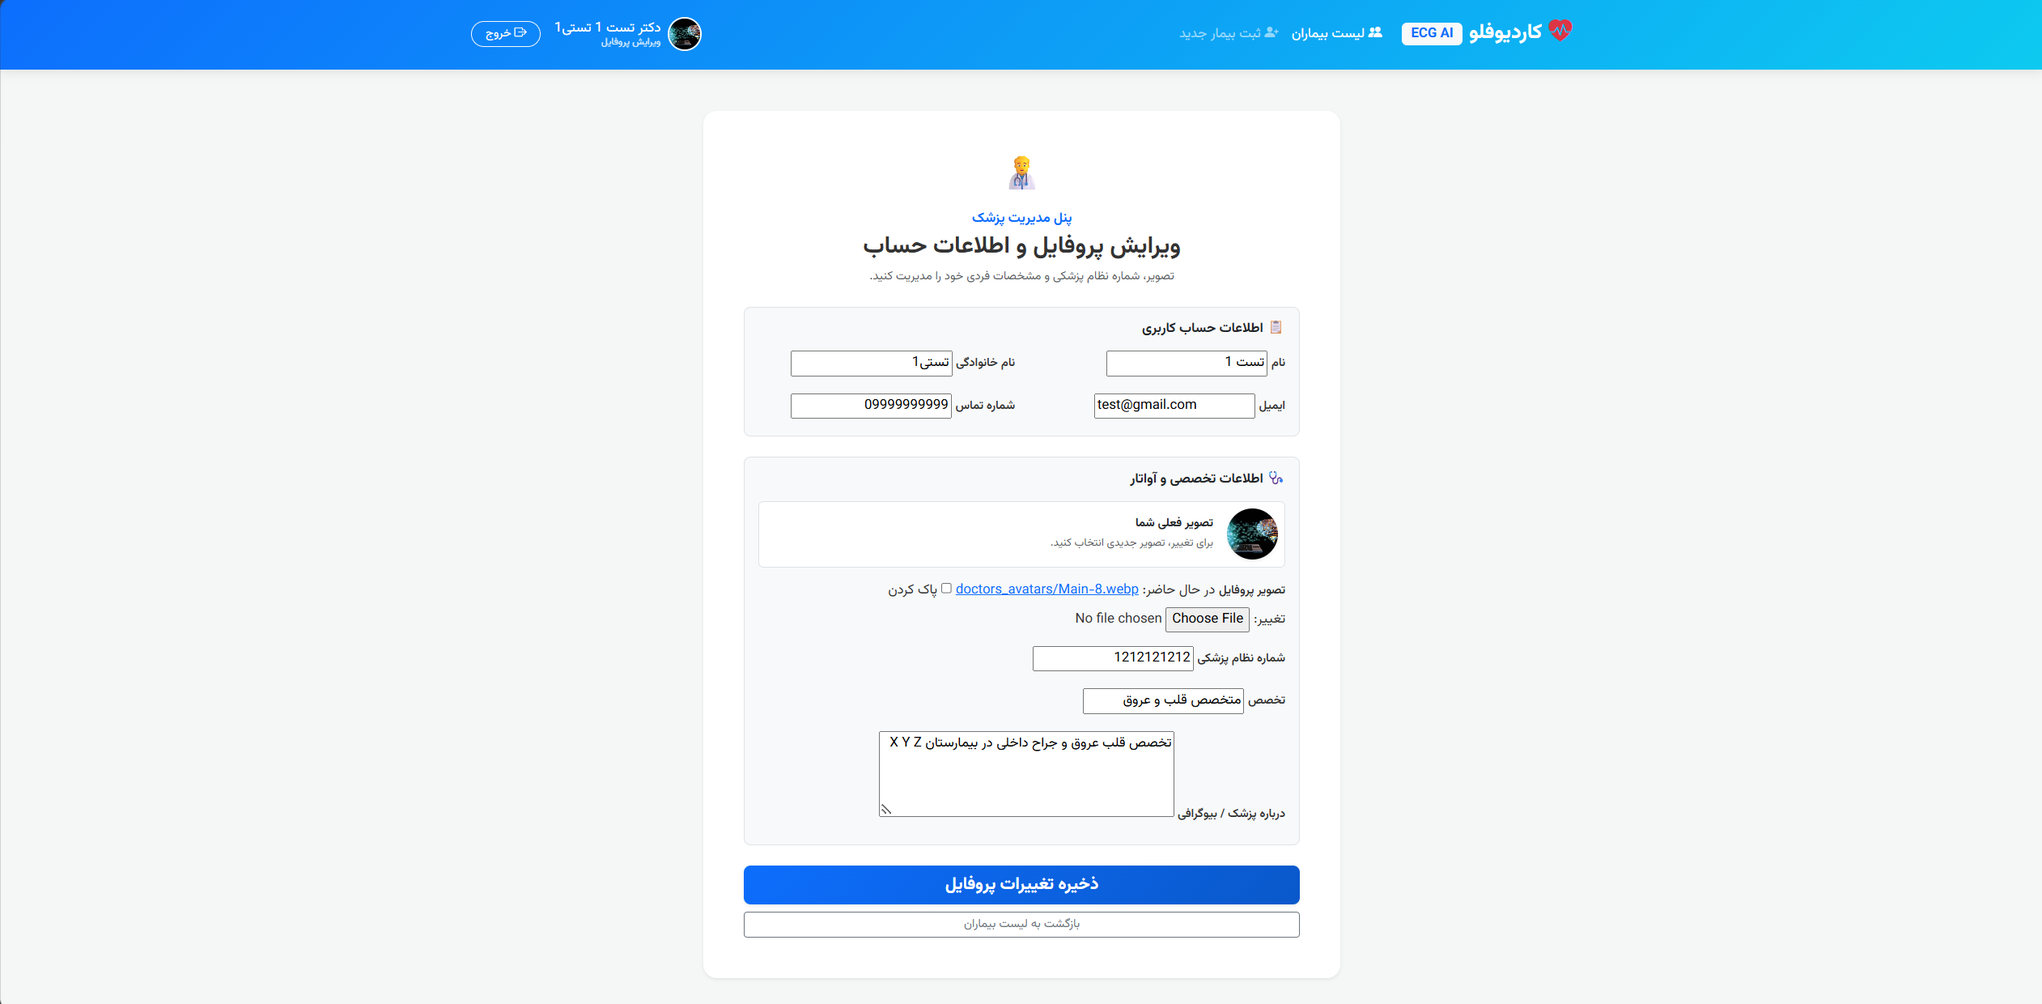
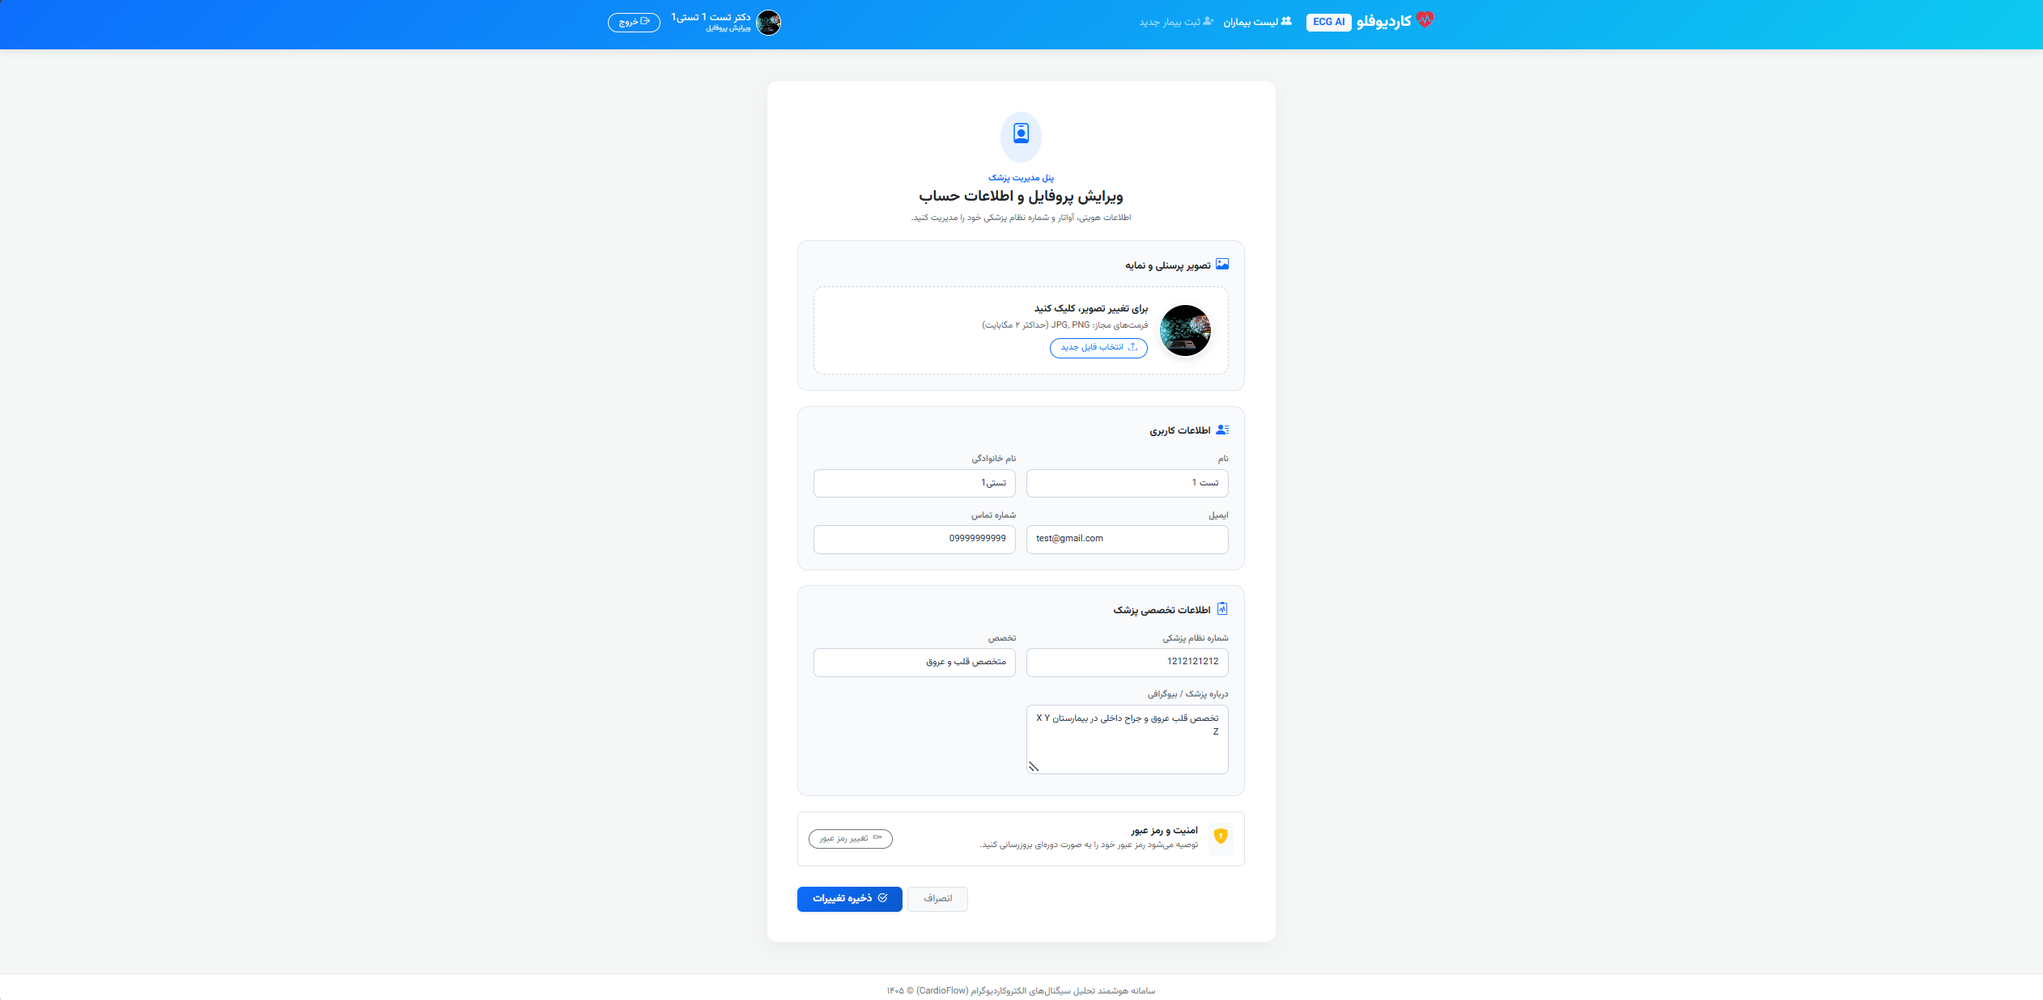
create change password and update css in profile and update md

diff --git a/templates/accounts/update_profile.html b/templates/accounts/update_profile.html
@@ -3,78 +3,218 @@
 {% block title %}پروفایل پزشک | کاردیوفلو{% endblock %}
 
 {% block content %}
-<section class="rd-container auth-layout py-4">
-    <div class="auth-card shadow-sm border-0 p-4 p-md-5 bg-white rounded-4 w-100" style="max-width: 750px; margin: 0 auto;">
+<style>
+    /* استایلهای مدرن برای اینپوتها و فیلدهای فرم */
+    .profile-card {
+        background: #ffffff;
+        border: 1px solid rgba(0, 0, 0, 0.06);
+        box-shadow: 0 10px 30px rgba(0, 0, 0, 0.04);
+    }
+    .section-card {
+        background-color: #f8fafc;
+        border: 1px solid #e2e8f0;
+        transition: all 0.2s ease;
+    }
+    .auth-field input[type="text"],
+    .auth-field input[type="email"],
+    .auth-field input[type="tel"],
+    .auth-field textarea,
+    .auth-field select {
+        width: 100%;
+        padding: 0.65rem 0.9rem;
+        font-size: 0.9rem;
+        border: 1.5px solid #cbd5e1;
+        border-radius: 0.6rem;
+        background-color: #ffffff;
+        color: #1e293b;
+        transition: all 0.2s ease-in-out;
+    }
+    .auth-field input:focus,
+    .auth-field textarea:focus,
+    .auth-field select:focus {
+        border-color: #3b82f6;
+        box-shadow: 0 0 0 4px rgba(59, 130, 246, 0.12);
+        outline: none;
+    }
+    /* کادر آپلود آواتار مدرن */
+    .avatar-upload-box {
+        border: 2px dashed #cbd5e1;
+        border-radius: 1rem;
+        padding: 1.5rem;
+        text-align: center;
+        background: #ffffff;
+        cursor: pointer;
+        transition: all 0.25s ease;
+        position: relative;
+    }
+    .avatar-upload-box:hover {
+        border-color: #3b82f6;
+        background: #f0f7ff;
+    }
+    .avatar-preview-img {
+        width: 85px;
+        height: 85px;
+        object-fit: cover;
+        border: 3px solid #ffffff;
+        box-shadow: 0 4px 12px rgba(0,0,0,0.1);
+    }
+</style>
 
-        <div class="auth-card-top text-center mb-4">
-            <div class="auth-mark mb-2" style="font-size: 2.5rem;">👨⚕</div>
-            <span class="auth-eyebrow text-primary fw-bold">پنل مدیریت پزشک</span>
-            <h1 class="h3 fw-bold mt-1">ویرایش پروفایل و اطلاعات حساب</h1>
-            <p class="text-muted small">تصویر، شماره نظام پزشکی و مشخصات فردی خود را مدیریت کنید.</p>
+<section class="container py-4">
+    <div class="profile-card rounded-4 p-4 p-md-5 w-100 mx-auto" style="max-width: 800px;">
+
+        <!-- هدر کارت -->
+        <div class="text-center mb-4">
+            <div class="d-inline-flex p-3 rounded-circle bg-primary bg-opacity-10 text-primary mb-3">
+                <i class="bi bi-person-badge fs-2"></i>
+            </div>
+            <span class="d-block text-primary fw-bold small text-uppercase mb-1">پنل مدیریت پزشک</span>
+            <h1 class="h4 fw-bold text-dark mb-2">ویرایش پروفایل و اطلاعات حساب</h1>
+            <p class="text-muted small mb-0">اطلاعات هویتی، آواتار و شماره نظام پزشکی خود را مدیریت کنید.</p>
         </div>
 
-        <form action="{% url 'accounts:profile' %}" method="post" enctype="multipart/form-data" class="auth-form">
+        <form action="{% url 'accounts:profile' %}" method="post" enctype="multipart/form-data">
             {% csrf_token %}
 
             {% if form.non_field_errors or user_form.non_field_errors %}
-                <div class="alert alert-danger py-2 small" role="alert">
-                    {% for error in form.non_field_errors %}<div>{{ error }}</div>{% endfor %}
-                    {% for error in user_form.non_field_errors %}<div>{{ error }}</div>{% endfor %}
+                <div class="alert alert-danger rounded-3 py-2 small shadow-sm mb-4" role="alert">
+                    {% for error in form.non_field_errors %}<div><i class="bi bi-exclamation-circle me-1"></i> {{ error }}</div>{% endfor %}
+                    {% for error in user_form.non_field_errors %}<div><i class="bi bi-exclamation-circle me-1"></i> {{ error }}</div>{% endfor %}
                 </div>
             {% endif %}
 
-            <!-- بخش اطلاعات کاربری (User) -->
-            <div class="p-3 mb-4 bg-light rounded-3 border">
-                <h5 class="fw-bold text-dark mb-3" style="font-size: 1rem;">📋 اطلاعات حساب کاربری</h5>
+            <!-- بخش ۱: تصویر پروفایل (آواتار تعاملی با پیشنمایش زنده) -->
+            <div class="section-card rounded-4 p-4 mb-4">
+                <div class="d-flex align-items-center mb-3">
+                    <i class="bi bi-image text-primary me-2 fs-5"></i>
+                    <h5 class="fw-bold text-dark mb-0 fs-6">تصویر پرسنلی و نمایه</h5>
+                </div>
+
+                <div class="avatar-upload-box d-flex flex-column flex-sm-row align-items-center gap-3" onclick="document.getElementById('id_avatar').click();">
+                    {% if user.profile.avatar %}
+                        <img id="avatar-preview" src="{{ user.profile.avatar.url }}" alt="آواتار" class="rounded-circle avatar-preview-img">
+                    {% else %}
+                        <div id="avatar-placeholder" class="rounded-circle avatar-preview-img bg-light text-secondary d-flex align-items-center justify-content-center border">
+                            <i class="bi bi-person display-6"></i>
+                        </div>
+                    {% endif %}
+
+                    <div class="text-sm-start text-center flex-grow-1">
+                        <span class="fw-bold text-dark d-block mb-1">برای تغییر تصویر، کلیک کنید</span>
+                        <span class="text-muted small d-block mb-2">فرمتهای مجاز: JPG, PNG (حداکثر ۲ مگابایت)</span>
+                        <span class="btn btn-sm btn-outline-primary rounded-pill px-3">
+                            <i class="bi bi-upload me-1"></i> انتخاب فایل جدید
+                        </span>
+                    </div>
+                </div>
+            </div>
+
+            <!-- بخش ۲: اطلاعات کاربری پایه -->
+            <div class="section-card rounded-4 p-4 mb-4">
+                <div class="d-flex align-items-center mb-3">
+                    <i class="bi bi-person-lines-fill text-primary me-2 fs-5"></i>
+                    <h5 class="fw-bold text-dark mb-0 fs-6">اطلاعات کاربری</h5>
+                </div>
+
                 <div class="row g-3">
                     {% for field in user_form.visible_fields %}
                         <div class="col-md-6 auth-field">
-                            <label for="{{ field.id_for_label }}" class="form-label fw-semibold small">
+                            <label for="{{ field.id_for_label }}" class="form-label fw-semibold text-secondary small mb-1">
                                 {{ field.label }}
                                 {% if field.field.required %}<span class="text-danger">*</span>{% endif %}
                             </label>
                             {{ field }}
-                            {% if field.help_text %}<div class="form-text text-muted" style="font-size: 0.75rem;">{{ field.help_text }}</div>{% endif %}
-                            {% for error in field.errors %}<div class="text-danger small mt-1">{{ error }}</div>{% endfor %}
+                            {% if field.help_text %}
+                                <div class="form-text text-muted" style="font-size: 0.75rem;">{{ field.help_text }}</div>
+                            {% endif %}
+                            {% for error in field.errors %}
+                                <div class="text-danger small mt-1"><i class="bi bi-x-circle me-1"></i>{{ error }}</div>
+                            {% endfor %}
                         </div>
                     {% endfor %}
                 </div>
             </div>
 
-            <!-- بخش مشخصات پروفایل (Profile) -->
-            <div class="p-3 mb-4 bg-light rounded-3 border">
-                <h5 class="fw-bold text-dark mb-3" style="font-size: 1rem;">🩺 اطلاعات تخصصی و آواتار</h5>
-
-                {% if user.profile.avatar %}
-                    <div class="d-flex align-items-center gap-3 mb-3 p-2 bg-white rounded border">
-                        <img src="{{ user.profile.avatar.url }}" alt="تصویر فعلی" class="rounded-circle shadow-sm" style="width: 60px; height: 60px; object-fit: cover;">
-                        <div>
-                            <span class="d-block small fw-bold text-dark">تصویر فعلی شما</span>
-                            <span class="text-muted" style="font-size: 0.8rem;">برای تغییر، تصویر جدیدی انتخاب کنید.</span>
-                        </div>
-                    </div>
-                {% endif %}
+            <!-- بخش ۳: اطلاعات تخصصی پزشک -->
+            <div class="section-card rounded-4 p-4 mb-4">
+                <div class="d-flex align-items-center mb-3">
+                    <i class="bi bi-clipboard2-pulse text-primary me-2 fs-5"></i>
+                    <h5 class="fw-bold text-dark mb-0 fs-6">اطلاعات تخصصی پزشک</h5>
+                </div>
 
                 <div class="row g-3">
                     {% for field in form.visible_fields %}
-                        <div class="col-12 auth-field">
-                            <label for="{{ field.id_for_label }}" class="form-label fw-semibold small">
-                                {{ field.label }}
-                                {% if field.field.required %}<span class="text-danger">*</span>{% endif %}
-                            </label>
-                            {{ field }}
-                            {% if field.help_text %}<div class="form-text text-muted" style="font-size: 0.75rem;">{{ field.help_text }}</div>{% endif %}
-                            {% for error in field.errors %}<div class="text-danger small mt-1">{{ error }}</div>{% endfor %}
-                        </div>
+                        {# فیلد آواتار را پنهان میکنیم چون ویجت دلخواه اختصاصی برای آن در بخش ۱ ساختیم #}
+                        {% if field.name == 'avatar' %}
+                            <div style="display: none;">{{ field }}</div>
+                        {% else %}
+                            <div class="col-md-6 auth-field">
+                                <label for="{{ field.id_for_label }}" class="form-label fw-semibold text-secondary small mb-1">
+                                    {{ field.label }}
+                                    {% if field.field.required %}<span class="text-danger">*</span>{% endif %}
+                                </label>
+                                {{ field }}
+                                {% if field.help_text %}
+                                    <div class="form-text text-muted" style="font-size: 0.75rem;">{{ field.help_text }}</div>
+                                {% endif %}
+                                {% for error in field.errors %}
+                                    <div class="text-danger small mt-1"><i class="bi bi-x-circle me-1"></i>{{ error }}</div>
+                                {% endfor %}
+                            </div>
+                        {% endif %}
                     {% endfor %}
                 </div>
             </div>
 
-            <div class="d-grid gap-2">
-                <button class="btn btn-primary btn-lg shadow-sm fw-bold" type="submit">ذخیره تغییرات پروفایل</button>
-                <a href="{% url 'patients:list' %}" class="btn btn-outline-secondary btn-sm">بازگشت به لیست بیماران</a>
+            <!-- بخش ۴: کادر امنیت و رمز عبور -->
+            <div class="p-3 mb-4 rounded-3 border bg-white d-flex flex-column flex-sm-row justify-content-between align-items-sm-center gap-3">
+                <div class="d-flex align-items-center gap-3">
+                    <div class="p-2 bg-light rounded text-secondary">
+                        <i class="bi bi-shield-lock-fill fs-4 text-warning"></i>
+                    </div>
+                    <div>
+                        <h6 class="mb-0 fw-bold text-dark">امنیت و رمز عبور</h6>
+                        <small class="text-muted">توصیه میشود رمز عبور خود را به صورت دورهای بروزرسانی کنید.</small>
+                    </div>
+                </div>
+                <div>
+                    <a href="{% url 'accounts:change_password' %}" class="btn btn-outline-secondary btn-sm px-3 text-nowrap rounded-pill">
+                        <i class="bi bi-key me-1"></i> تغییر رمز عبور
+                    </a>
+                </div>
+            </div>
+
+            <!-- دکمههای اقدام نهایی -->
+            <div class="d-flex flex-column-reverse flex-sm-row justify-content-end gap-2 pt-2">
+                <a href="{% url 'patients:list' %}" class="btn btn-light border text-secondary px-4">
+                    انصراف
+                </a>
+                <button class="btn btn-primary px-4 shadow-sm fw-bold" type="submit">
+                    <i class="bi bi-check2-circle me-1"></i> ذخیره تغییرات
+                </button>
             </div>
         </form>
     </div>
 </section>
+
+<!-- اسکریپت ساده برای پیشنمایش زنده عکس انتخابی -->
+<script>
+    document.addEventListener("DOMContentLoaded", function() {
+        const avatarInput = document.getElementById("id_avatar");
+        const avatarPreview = document.getElementById("avatar-preview");
+
+        if (avatarInput) {
+            avatarInput.addEventListener("change", function() {
+                const file = this.files[0];
+                if (file && avatarPreview) {
+                    const reader = new FileReader();
+                    reader.onload = function(e) {
+                        avatarPreview.src = e.target.result;
+                    };
+                    reader.readAsDataURL(file);
+                }
+            });
+        }
+    });
+</script>
 {% endblock %}

diff --git a/templates/accounts/change_password.html b/templates/accounts/change_password.html
@@ -1,0 +1,91 @@
+{% extends 'base.html' %}
+
+{% block title %}تغییر رمز عبور | RhythmDesk{% endblock %}
+
+{% block content %}
+    <section class="rd-container auth-layout py-4">
+        <div class="auth-card shadow-sm border-0 p-4 p-md-5 bg-white rounded-4 w-100"
+             style="max-width: 550px; margin: 0 auto;">
+
+            <div class="auth-card-top text-center mb-4">
+                <div class="auth-mark mb-2" style="font-size: 2.5rem;">🔒</div>
+                <span class="auth-eyebrow text-primary fw-bold">امنیت حساب کاربری</span>
+                <h1 class="h3 fw-bold mt-1">تغییر رمز عبور</h1>
+                <p class="text-muted small">برای حفظ امنیت حساب کاربری، رمز عبور خود را بهروزرسانی کنید.</p>
+            </div>
+
+            <form method="post" class="auth-form" novalidate>
+                {% csrf_token %}
+
+                {% if form.non_field_errors %}
+                    <div class="alert alert-danger py-2 small rounded-3 mb-3" role="alert">
+                        {% for error in form.non_field_errors %}
+                            <div><i class="bi bi-exclamation-circle me-1"></i> {{ error }}</div>
+                        {% endfor %}
+                    </div>
+                {% endif %}
+
+                <div class="auth-fields mb-4">
+                    <div class="row g-3">
+                        {% for field in form.visible_fields %}
+                            <div class="col-12 auth-field">
+                                <label for="{{ field.id_for_label }}"
+                                       class="form-label fw-semibold small text-secondary mb-1">
+                                    {{ field.label }}
+                                    {% if field.field.required %}<span class="text-danger">*</span>{% endif %}
+                                </label>
+
+                                <!-- رندر فیلد با استایل فرمکنترل -->
+                                <div class="input-group">
+                                    {{ field }}
+                                </div>
+
+                                {% if field.help_text %}
+                                    <div class="form-text text-muted" style="font-size: 0.75rem;">
+                                        {{ field.help_text|safe }}
+                                    </div>
+                                {% endif %}
+
+                                {% for error in field.errors %}
+                                    <div class="text-danger small mt-1">
+                                        <i class="bi bi-x-circle me-1"></i> {{ error }}
+                                    </div>
+                                {% endfor %}
+                            </div>
+                        {% endfor %}
+                    </div>
+                </div>
+
+                <div class="d-grid gap-2">
+                    <button type="submit" class="btn btn-primary btn-lg shadow-sm fw-bold">
+                        <i class="bi bi-check2-circle me-1"></i> ذخیره رمز عبور جدید
+                    </button>
+                    <a href="{% url 'accounts:profile' %}" class="btn btn-outline-secondary btn-sm">
+                        انصراف و بازگشت به پروفایل
+                    </a>
+                </div>
+            </form>
+
+        </div>
+    </section>
+
+    <!-- استایل کوچک کمکی برای اطمینان از تمیزی اینپوتها -->
+    <style>
+        .auth-field input {
+            width: 100%;
+            padding: 0.65rem 0.9rem;
+            font-size: 0.9rem;
+            border: 1.5px solid #cbd5e1;
+            border-radius: 0.6rem;
+            background-color: #ffffff;
+            color: #1e293b;
+            transition: all 0.2s ease-in-out;
+        }
+
+        .auth-field input:focus {
+            border-color: #3b82f6;
+            box-shadow: 0 0 0 4px rgba(59, 130, 246, 0.12);
+            outline: none;
+        }
+    </style>
+{% endblock %}

diff --git a/apps/accounts/views.py b/apps/accounts/views.py
@@ -1,8 +1,9 @@
-from django.contrib.auth.views import LoginView, LogoutView
+from django.contrib.auth.views import LoginView, LogoutView, PasswordChangeView
 from django.contrib.auth.mixins import LoginRequiredMixin
 from django.urls import reverse_lazy
 from django.views.generic import CreateView, UpdateView
 from django.contrib import messages
+from django.contrib.messages.views import SuccessMessageMixin
 from django.contrib.auth import login
 from .forms import ProfileUpdateForm, UserUpdateForm
 from .models import Profile
@@ -74,3 +75,8 @@ class ProfileUpdateView(LoginRequiredMixin, UpdateView):
         profile_form.save()
         user_form.save()
         return super().form_valid(profile_form)
+
+class ChangePasswordView(LoginRequiredMixin,SuccessMessageMixin,PasswordChangeView):
+    template_name = 'accounts/change_password.html'
+    success_url = reverse_lazy('accounts:profile')
+    success_message = 'رمز عبور شما با موفقیت تغییر یافت'

diff --git a/apps/accounts/urls.py b/apps/accounts/urls.py
@@ -1,5 +1,5 @@
 from django.urls import path
-from .views import CustomLogoutView, CustomLoginView, CustomRegisterView, ProfileUpdateView
+from .views import CustomLogoutView, CustomLoginView, CustomRegisterView, ProfileUpdateView , ChangePasswordView
 
 app_name = 'accounts'
 urlpatterns = [
@@ -7,4 +7,5 @@ urlpatterns = [
     path('login', CustomLoginView.as_view(), name='login'),
     path('logout', CustomLogoutView.as_view(), name='logout'),
     path('profile/', ProfileUpdateView.as_view(), name='profile'),
+    path('password-change/', ChangePasswordView.as_view(), name='change_password'),
 ]
